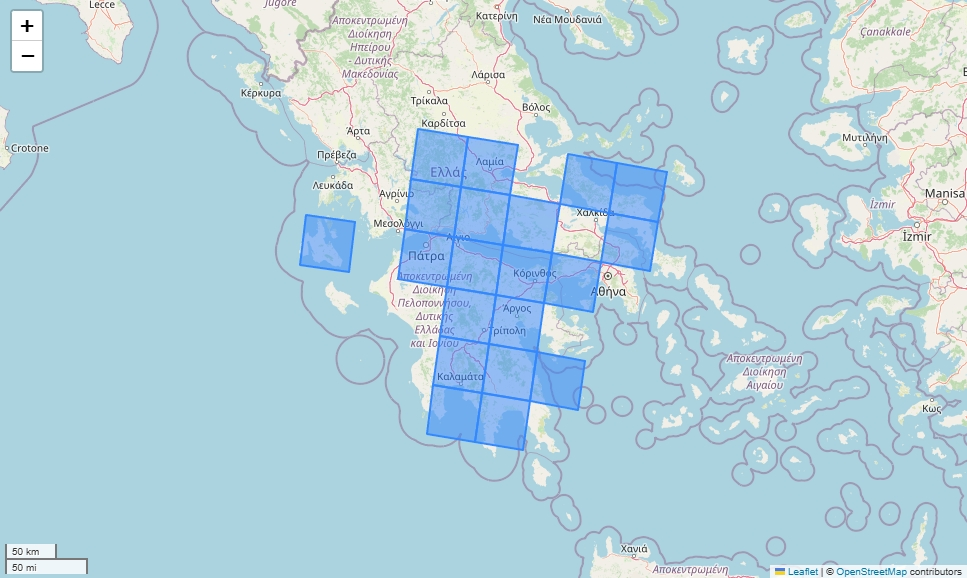
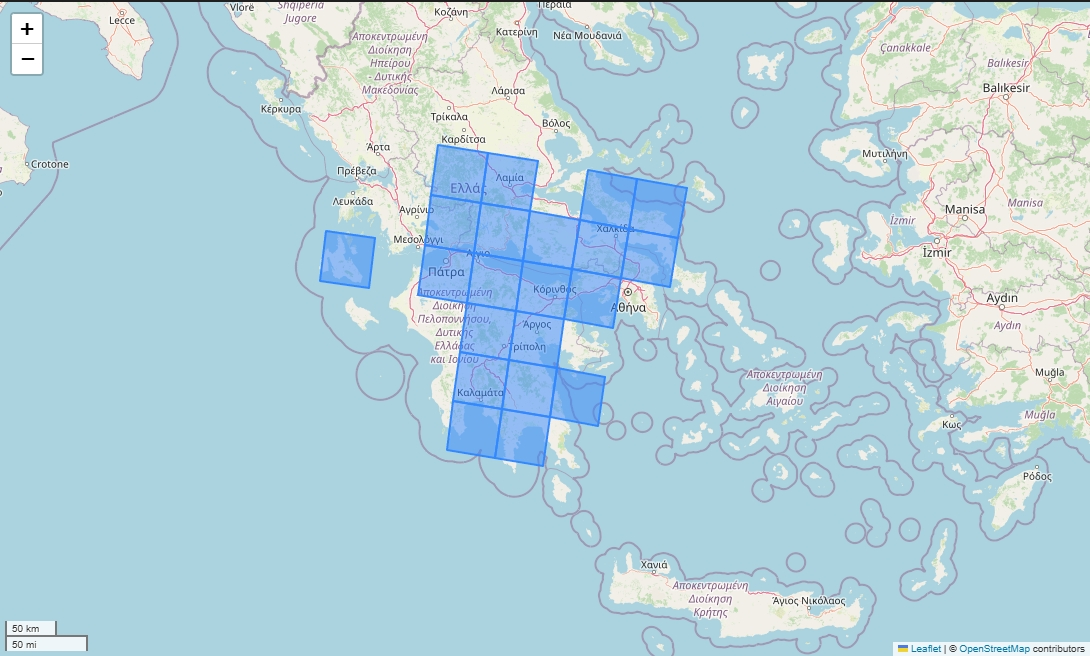
update grid

diff --git a/src/run_composites.py b/src/run_composites.py
@@ -35,7 +35,7 @@ if __name__ == "__main__":
     geojson_path = "../geojsons/compgen"
     generate_geojson_files_for_composites(
         output_dir=geojson_path,
-        tile_geojson_filepath='../anciliary/grid_v2.geojson',
+        tile_geojson_filepath='../anciliary/grid_20_v2.geojson',
         start_date=datetime.datetime(2020, 1, 1),
         end_date=datetime.datetime(2025, 9, 1),
     )

diff --git a/src/utils/utils.py b/src/utils/utils.py
@@ -62,7 +62,7 @@ def setup_logger(logger_name, logger_path, logger_format):
 
 def generate_geojson_files_for_composites(
     output_dir="../geojsons/compgen",
-    tile_geojson_filepath="../anciliary/grid_v2.geojson",
+    tile_geojson_filepath="../anciliary/grid_20_v2.geojson",
     start_date=datetime.datetime(2020, 1, 1),
     end_date=datetime.datetime(2025, 9, 1),
 ):

diff --git a/README.md b/README.md
@@ -13,7 +13,7 @@ Based on [Open Data Cube](https://www.opendatacube.org/). For the EODC, the foll
 6. Verified dataset storage, indexing, and retrieval from NAS using EO3 datasets and EODC
 
 ### Tiling schema
-The study area is divided into 20 tiles, each measuring 48 × 48 km. Tile naming follows the format `x00_y00` format without negative indices. In 20-m imagery this translates to time×variables×2400×2400 pixel time series. A 2400×2400 size was found appropriate for an effective processing in a 32GB - 8 CPU configuration, with an average product delivery time of 7 minutes.
+The study area is divided into 21 tiles, each measuring 48 × 48 km. Tile naming follows the format `x00_y00` format without negative indices. In 20-m imagery this translates to time×variables×2400×2400 pixel time series. A 2400×2400 size was found appropriate for an effective processing in a 32GB - 8 CPU configuration, with an average product delivery time of 7 minutes.
 
 ![Grid](wiki_img/Grid.jpg)
 
